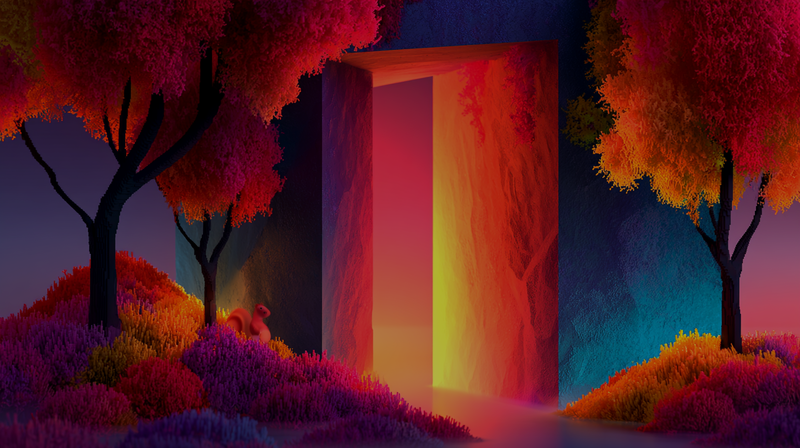
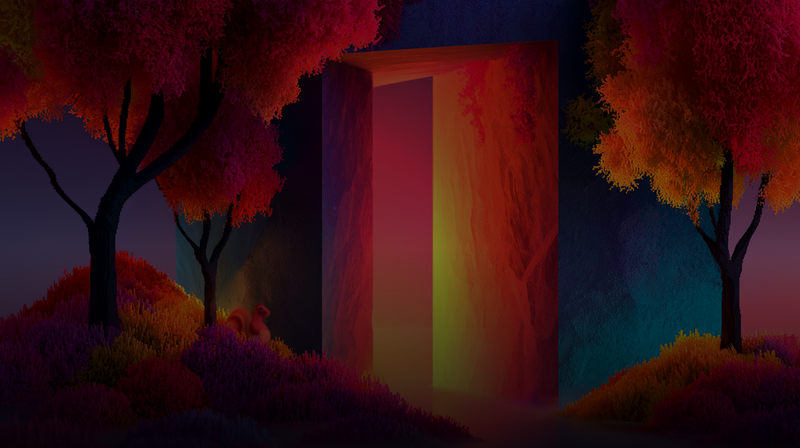
dmg: bake contrast into bg image; drop no-op dmgbuild appearance setting
dmgbuild 1.6.7 silently ignores the 'appearance = "dark"' key — verified
via inspect on the installed module. The previous attempt at flipping
icon-label text to white via that setting did nothing; the labels
stayed black on the still-vivid background.

Fixed by baking the contrast directly into the source PNG so labels
are legible regardless of which colour Finder picks for them:

  app/assets/dmg-background.png       restored from 5c267da's original,
                                      then composited:
                                      - 50% global brightness (was 70%)
                                      - smooth black gradient overlay
                                        from y=55% down, alpha ramping
                                        0 -> 180 across the bottom band
                                        where icon labels sit
  app/assets/[email redacted]    same transform

  tools/bt/dmg.py                     removed the inert
                                      'appearance = "dark"' lines from
                                      both DMG settings templates +
                                      their explanatory comments.

CI/CD: no workflow changes needed; ci.yml + release.yml call
`bt dmg` / `bt dmg-pfusers` which now consume the new background +
slimmer settings template.

Both DMGs rebuilt + uploaded to v0.1.0.

diff --git a/tools/bt/dmg.py b/tools/bt/dmg.py
@@ -89,10 +89,6 @@ size = "300M"
 icon = {str(icon)!r}
 background = {str(bg)!r}
 window_rect = ((100, 100), {WINDOW_SIZE!r})
-# Dark Finder appearance forces white icon labels — without this, the
-# BelkaTunnel.app / Applications text under each icon renders black,
-# which is unreadable on the darkened tunnel-between-trees background.
-appearance = "dark"
 icon_size = {ICON_SIZE}
 text_size = {TEXT_SIZE}
 icon_locations = {{
@@ -216,9 +212,7 @@ icon_locations = {{
     appname:        {APP_ICON_POS!r},
     "Applications": {APPLICATIONS_ICON_POS!r},
 }}
-# Dark Finder appearance forces white icon labels for legibility on the
 # darkened background image.
-appearance = "dark"
 
 default_view = "icon-view"
 show_status_bar = False